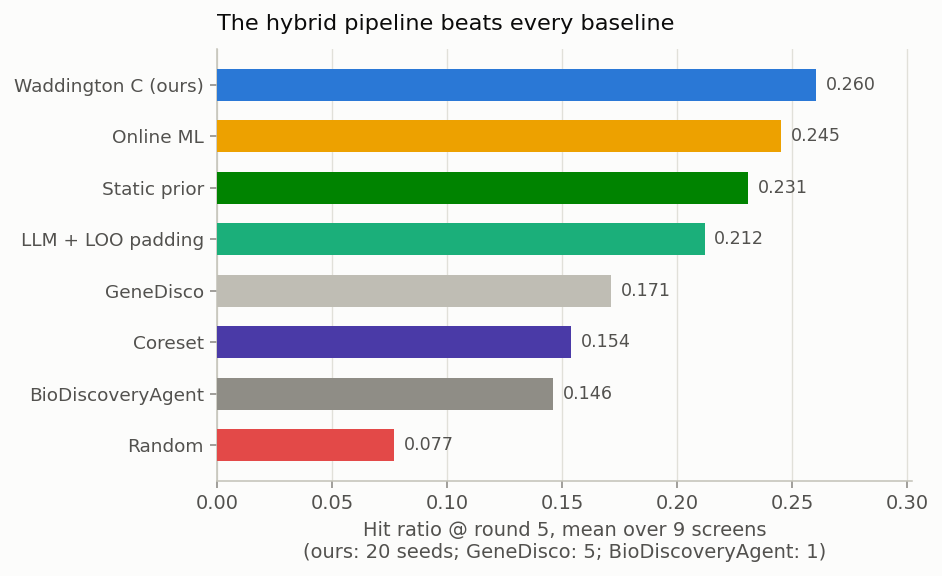
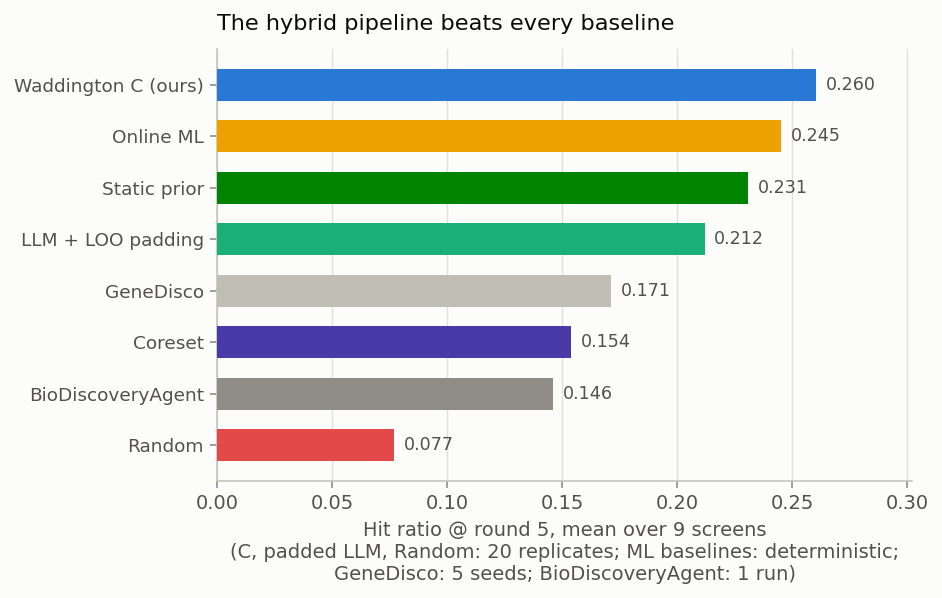
Compare the clean prior with hit frequency; label figure 2's replicates
feature_families.py now also pairs the prior built only from features with no anchor and no label (0.241)
against the plain cross-screen hit-frequency ranking (0.175): +0.067 [0.014, 0.128], 7/0/2. The paper's
recurrence claim had used the thirteen-feature prior (0.243), which includes the privileged anchor-relative
features; the existing outputs are unchanged.

Figure 2's axis note said "ours: 20 seeds"; since the main table moved to matched baselines the three ML
baselines are deterministic (one run), and the LLM runs are evaluation replicates, not independent seeds.

diff --git a/waddington_select/analysis/feature_families.py b/waddington_select/analysis/feature_families.py
@@ -14,7 +14,8 @@ screens' anchors and hits (analysis/hub_leak.py), so they are regrouped here by 
 
 Same convention as prior_probes (a uniform LOO LightGBM, DepMap on every screen, label-free tie order), so the
 numbers sit next to its feature-family probe. Paired, screen-clustered comparisons are against global+depmap,
-the prior built only from features with no anchor and no label. Also saved: the within-screen Spearman
+the prior built only from features with no anchor and no label. Also saved: that clean prior against the
+plain cross-screen hit-frequency ranking (prior_probes.json, label-free ties), and the within-screen Spearman
 correlation of the thirteen features, averaged over the nine screens.
 
 Run:  python -m waddington_select.analysis.feature_families      -> workspace/results/feature_families.json
@@ -33,6 +34,7 @@ from .prior_probes import _load, _loo_hit_at_r5
 
 REPO = Path(__file__).resolve().parents[2]
 OUT = REPO / "workspace" / "results" / "feature_families.json"
+PRIOR_PROBES = REPO / "workspace" / "results" / "prior_probes.json"
 GLOBAL = ["string_degree_norm", "pli_score", "kegg_pathway_count_norm", "reactome_pathway_count_norm"]
 POOLED = ["hub_score_norm", "ppi_score_sum"]
 DEPMAP = ["depmap_frac_ess", "depmap_mean_norm", "depmap_min_norm", "depmap_K562_norm"]
@@ -66,7 +68,12 @@ def main() -> None:
         "paired_vs_clean": {k: _paired(v, per[CLEAN]) for k, v in per.items() if k != CLEAN},
         "correlation": correlations(df),
     }
+    hit_freq = {d: v["hit_frequency"] for d, v in json.loads(PRIOR_PROBES.read_text())["per_screen"].items()}
+    out["clean_minus_hit_frequency"] = _paired(per[CLEAN], hit_freq)
     OUT.write_text(json.dumps(out, indent=1))
+    p = out["clean_minus_hit_frequency"]
+    print(f"clean prior minus hit-frequency ranking {p['delta']:+.4f} [{p['ci95'][0]:+.3f}, {p['ci95'][1]:+.3f}] "
+          f"{p['wins']}/{p['ties']}/{p['losses']}")
     for k, v in out["means"].items():
         p = out["paired_vs_clean"].get(k)
         tail = "" if p is None else (f"  vs clean {p['delta']:+.4f} [{p['ci95'][0]:+.3f}, {p['ci95'][1]:+.3f}] "

diff --git a/waddington_select/analysis/figures.py b/waddington_select/analysis/figures.py
@@ -93,7 +93,8 @@ def method_comparison(out: Path) -> Path:
                     va="center", fontsize=9, color=S.INK_2)
 
     ax.set_yticks(y, labels, fontsize=9.5)
-    ax.set_xlabel("Hit ratio @ round 5, mean over 9 screens\n(ours: 20 seeds; GeneDisco: 5; BioDiscoveryAgent: 1)")
+    ax.set_xlabel("Hit ratio @ round 5, mean over 9 screens\n(C, padded LLM, Random: 20 replicates; ML baselines: "
+                  "deterministic;\nGeneDisco: 5 seeds; BioDiscoveryAgent: 1 run)")
     ax.set_title("The hybrid pipeline beats every baseline", color=S.INK, fontsize=11.5, loc="left", pad=10)
     ax.set_xlim(0, max(means.values) * 1.16)
     ax.grid(axis="y", visible=False)
